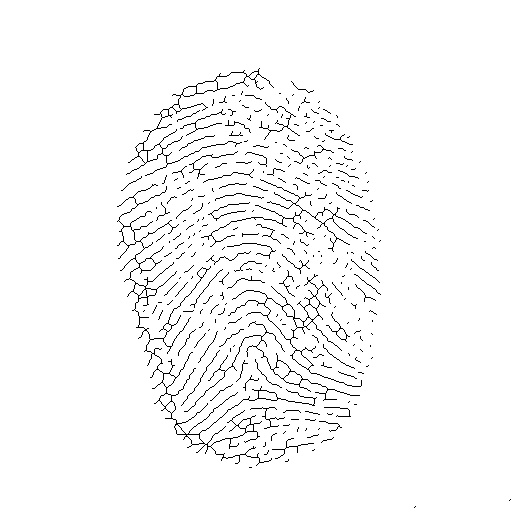
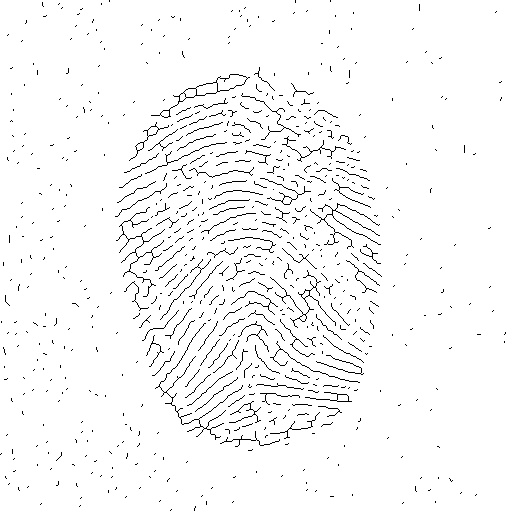
adaptation de l'article "Fingerprint Image Enhancement: Algorithm and Performance Evaluation" jusqu'a theta reprendre a l'etape 4

Changed region(s): [[0.2188, 0.125, 0.75, 0.9062], [0.5938, 0.1875, 0.625, 0.2188], [0.5625, 0.1562, 0.5938, 0.1875]]

diff --git a/minutiae_detection/orientation.py b/minutiae_detection/orientation.py
@@ -1,0 +1,237 @@
+"""
+. memo
+code permet de determiner l'orientation des zone de l'img = block de taille W_BLOCK  
+ etape 1: pretrzitement simple (=normalize + grayscale)
+ etape 2: ROI = masque autour de l'empreinte
+ etape 3: orientation 
+"""
+"""
+.documentation CV2
+
+THRESH_OTSU : treshold où la valeur seuil est determiner automatiquement et n'est donc pas arbitraire
+TRESH_BINARY : treshold binaire si pix sup a la val seuil alors passe a val max sinon =0
+               ⚠prend que des img src en niv de gris 
+getStructuringElement(cv2.MORPH_ELLIPSE, (15,15)) : creer un "element" de la forme puis taille demandée 
+
+"""             
+
+img = "C:\\Users\\Elise\\OneDrive\\Bureau\\empreintes\\empreinte_nouv_tampon.jpg" 
+
+
+import numpy as np
+import cv2
+from pathlib import Path
+from PIL import Image 
+
+# ==========================
+# Réglages
+# ==========================
+FICHIER_OUT   = "output_orientation" 
+W_BLOCK   = 16    
+SMOOTH_K  = 5    #taille du noyau de lissage du champ d’orientation (sur cos2θ/sin2θ).    
+COEF_FLOU     = 1.0   #écart-type du flou gaussien avant Sobel (stabilise les gradients)   
+USE_TANGENT = False 
+
+
+#. Pretraitement de base
+
+
+def niv_de_gris(path):
+
+    #avec path verifie existence 
+    p=Path(path)
+    if not p.exists():
+        raise FileNotFoundError(p)
+    
+
+    img_nivgris = cv2.imread(str(p), cv2.IMREAD_GRAYSCALE)
+    if img_nivgris is not None:
+        return img_nivgris
+
+"""
+Le but de normilise est d'imposer une moyenne et variance a atteindre ici M0 et VAR0 
+
+formule que l'on veut traduire  (cf article)
+$$
+\
+G(i,j) =
+\begin{cases}
+M_0 + \sqrt{\dfrac{VAR_0 \, (I(i,j) - M)^2}{VAR}}, & \text{si } I(i,j) > M \\[1.2em]
+M_0 - \sqrt{\dfrac{VAR_0 \, (I(i,j) - M)^2}{VAR}}, & \text{sinon.}
+\end{cases}
+\
+
+\
+M = \dfrac{1}{N} \sum_{i,j} I(i,j),
+\qquad
+VAR = \dfrac{1}{N} \sum_{i,j} \bigl(I(i,j) - M\bigr)^2
+\
+$$
+"""
+
+
+
+def normalise_fun(img_grise, M0=100.0, VAR0=100.0): 
+    I = img_grise.astype(np.float64) #passe l'image en TABLEAU de la val de chaque pixel 
+    
+    if I.max() <= 1.0: 
+        I *= 255.0 #on elargit les niv de gris 
+
+    M = I.mean(); #val moy de gris
+    VAR = I.var(); #variance moy de gris 
+
+    if VAR < 1e-9: #cas si variance null on rempli tt pour eviter la div par 0 
+        G = np.full_like(I, fill_value=M0, dtype=np.float64)  
+    else:
+        
+
+        d = I - M
+        ajustement = np.sqrt((VAR0 * (d**2)) / VAR) #=TABLEAU des parties sous la racine pour chaque pixel
+        #(on conserve le signe p/r a la moyenne mais si + que M on le rend + que M0 et inv)
+        G = np.where(I>M, M0+ ajustement, M0 - ajustement ) #CREER un nouv TABLEAU et rempli selon condition : np.where(condition, si sup a la moyenne, si inf a la moy)
+    return np.clip(G, 0, 255).astype(np.uint8) #recadre entre [0,255 ] et repasse format uint8 ⚠sinon bug
+
+
+
+#. isolement empreinte (pas dans article mais bug sur orientation sinon)
+
+"""
+on veut crree un masque binaire pour isoler empreintre :
+0= masque
+255= empreinte
+"""
+def segment_roi(img_grise):
+    flou = cv2.GaussianBlur(img_grise, (0,0), 3.0) 
+    _, mask = cv2.threshold(flou, 0, 255, cv2.THRESH_BINARY+cv2.THRESH_OTSU) #treshold avec valeur optimal deduite par l'algo renvoi val , masque 
+    #on veut le masque en blanc ?
+    if np.sum(mask==255) > np.sum(mask==0): #si + de noir que de blanc
+        mask = 255 - mask #on inv
+    k = cv2.getStructuringElement(cv2.MORPH_ELLIPSE, (15,15))  #COMMENT :⚠si trop aggressif baissé ou augmenter la taille (memo 15 ok la plupart du temps)
+    mask = cv2.morphologyEx(mask, cv2.MORPH_CLOSE, k) #enleve petit trou
+    mask = cv2.morphologyEx(mask, cv2.MORPH_OPEN,  k) #supprime petit point 
+
+
+    #PARTIE TROUVER DANS UN ARTICLE, marche mais jsp comment 
+    num,lbl,stats,_ = cv2.connectedComponentsWithStats((mask>0).astype(np.uint8), 8)
+    if num > 1:
+        largest = 1 + np.argmax(stats[1:, cv2.CC_STAT_AREA])
+        mask = (lbl==largest).astype(np.uint8)*255
+    
+
+
+    mask = cv2.erode(mask, cv2.getStructuringElement(cv2.MORPH_ELLIPSE,(5,5)), 1) #lisse le tour
+    return mask
+
+
+#. Orientation (Hong) — SOMMES UNIQUEMENT DANS LE MASQUE
+# θ = 0.5 * atan2(Vx, Vy)  (ordre corrigé) 
+
+def fun_orientation(img_grise, masque, w=8, smooth_ksize=5, coef_flou=1.0):
+    """
+        imggrise + masque -> matrice des orientation par bloc + 
+    """
+
+    G = img_grise.astype(np.float32) #repasse l'img en TAB de val
+    H= len(G)
+    W = len (G[0])
+    Hb, Wb = H//w, W//w #etape 1 de l'algo : decoupage en blocs 
+
+
+
+    # etape2:gradients 
+    Gs = cv2.GaussianBlur(G, (0,0), coef_flou) # permet de lisser un peu ava,t les gradient 
+
+    Gx=cv2.Sobel(Gs,cv2.CV_32F, 1, 0,ksize=3) # on utilise sobel comme demandé dans l'article 
+    Gy=cv2.Sobel(Gs, cv2.CV_32F,0, 1,ksize=3) # doc : computes an approximation of the gradient of the image intensity function
+    # poids: 0 hors masque, |VI| dans le ROI (stabilise)
+    mag = cv2.magnitude(Gx, Gy) #les pixek les plus fonçé seront + imp
+    POIDS = (masque > 0).astype(np.float32) * (mag + 0.00001) #COMMENT : ⚠ attention ne pas oublié le +0,0001 sinon rique div par 0 apres
+   
+    
+    
+    
+    # CALCULE DES "local orientation of each block centered at pixel i j "
+    Vx =np.zeros((Hb, Wb),np.float32)
+    Vy =np.zeros((Hb, Wb),np.float32)
+
+    """
+    on utilise ces equations :
+    $$
+    \
+\begin{aligned}
+S_{xx} &= \sum_{i,j} w_{i,j}\, G_x(i,j)^2, \\[0.5em]
+S_{yy} &= \sum_{i,j} w_{i,j}\, G_y(i,j)^2, \\[0.5em]
+S_{xy} &= \sum_{i,j} w_{i,j}\, G_x(i,j)\, G_y(i,j),
+\end{aligned}
+
+\
+V_x = 2 S_{xy}, \qquad V_y = S_{xx} - S_{yy}.
+\
+$$
+    """ 
+    for bi in range(Hb):
+        for bj in range(Wb):
+            
+            #bord du block
+            y0,y1 = bi*w,(bi+1)*w
+            x0,x1 = bj*w,(bj+1)*w
+            
+            #poid du bloc
+            bloc_poids = np.zeros((y1 - y0, x1 - x0), dtype=POIDS.dtype)
+
+            for i in range(y0, y1):
+                for j in range(x0, x1):
+                    bloc_poids[i - y0, j - x0] = POIDS[i, j]
+
+            if not np.any(bloc_poids>0): # si aucun poid du bloc >0 alors on saute bloc-> vide pas orieneteation fiable 
+                continue
+
+            #gradient du bloc 
+            gx = Gx[y0:y1, x0:x1] 
+            gy = Gy[y0:y1, x0:x1]
+
+            # Sommes pond. QUE sur masque
+            Sxx = np.sum(bloc_poids * (gx*gx))
+            Syy = np.sum(bloc_poids * (gy*gy))
+            Sxy =np.sum(bloc_poids *(gx*gy))
+
+            # Vx = 2 Σ Gx Gy ; Vy = Σ(Gx^2 - Gy^2)
+            Vx[bi,bj] = 2.0 * Sxy
+            Vy[bi,bj] = (Sxx - Syy)
+
+
+
+
+    # CALCULE DE THETA 
+
+    """$$
+    \
+    \theta = \tfrac{1}{2} \, \tan^{-1}\!\left( \frac{V_x}{V_y} \right)
+    \
+    $$
+    """
+    theta = 0.5 * np.arctan2(Vx, Vy) #on utilise 2 pour avoir qqch appartenant a [-180,180] (sino [-90,90])
+
+    # etape 4 
+    """
+    $$
+    \
+    \begin{aligned}
+    \Phi_x(i,j) &= \cos\big(2\,\theta(i,j)\big), \quad \text{and} \\[0.5em]
+    \Phi_y(i,j) &= \sin\big(2\,\theta(i,j)\big),
+    \end{aligned}
+    \
+    \
+    \begin{aligned}
+    \Phi_x'(i,j) &= 
+    \sum_{u=-w_\Phi/2}^{w_\Phi/2}
+    \sum_{v=-w_\Phi/2}^{w_\Phi/2}
+    W(u,v)\,\Phi_x(i - u w,\, j - v w), \quad \text{and} \\[0.8em]
+    \Phi_y'(i,j) &= 
+    \sum_{u=-w_\Phi/2}^{w_\Phi/2}
+    \sum_{v=-w_\Phi/2}^{w_\Phi/2}
+    W(u,v)\,\Phi_y(i - u w,\, j - v w),
+    \end{aligned}
+    \
+    $$    
+    """

diff --git a/minutiae_detection/main_find.py b/minutiae_detection/main_find.py
@@ -10,8 +10,8 @@ sys.path.append(parent_dir)
 
 from json_utils import ajouter_personne
 
-filename = 'minutiae_detection\\input\\empreinteS3.jpg'
-output_filename = 'minutiae_detection\\output\\empreinteS3_minutiae.jpg' #[ ] a obtenir automatiquement avec str_modify a l'interieur de find_minutiae
+filename = 'minutiae_detection\\input\\empreinteS.jpg'
+output_filename = 'minutiae_detection\\output\\empreinteS_minutiae.jpg' #[ ] a obtenir automatiquement avec str_modify a l'interieur de find_minutiae
 
 
 pretraitée_file_name = pretraitements(filename)
